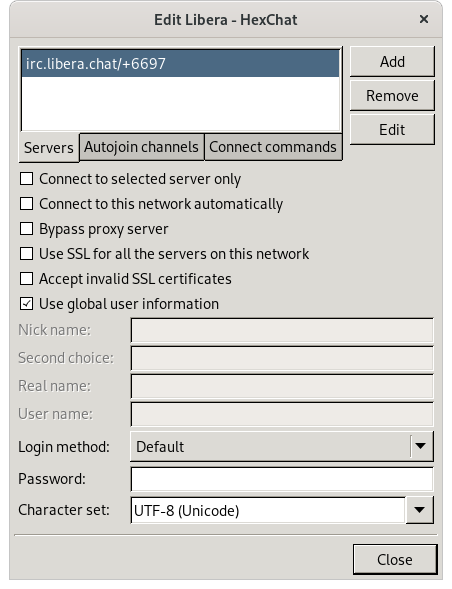
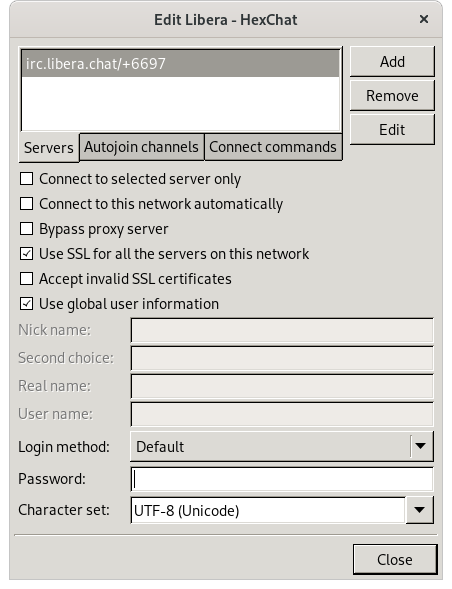
fixed ssl option not ticked in the lc-hc-02 screeshot

Changed region(s): [[0.031, 0.0611, 0.7743, 0.1528]]

diff --git a/docs/irc.rst b/docs/irc.rst
@@ -74,7 +74,7 @@ Your window should look something like this.
    :width: 500px
    :align: center
 
-Then click the edit button on the right (in the pic above), to edit and configure the server setting to ``irc.libera.chat/+6697`` like you see in the pic below …
+Then click the edit button on the right (in the pic above), to edit and configure the server setting to ``irc.libera.chat/+6697`` like you see in the pic below … (also make sure that the ssl option is ticked)
 
 .. figure:: img/hc/lc-hc-02.png
    :width: 500px
